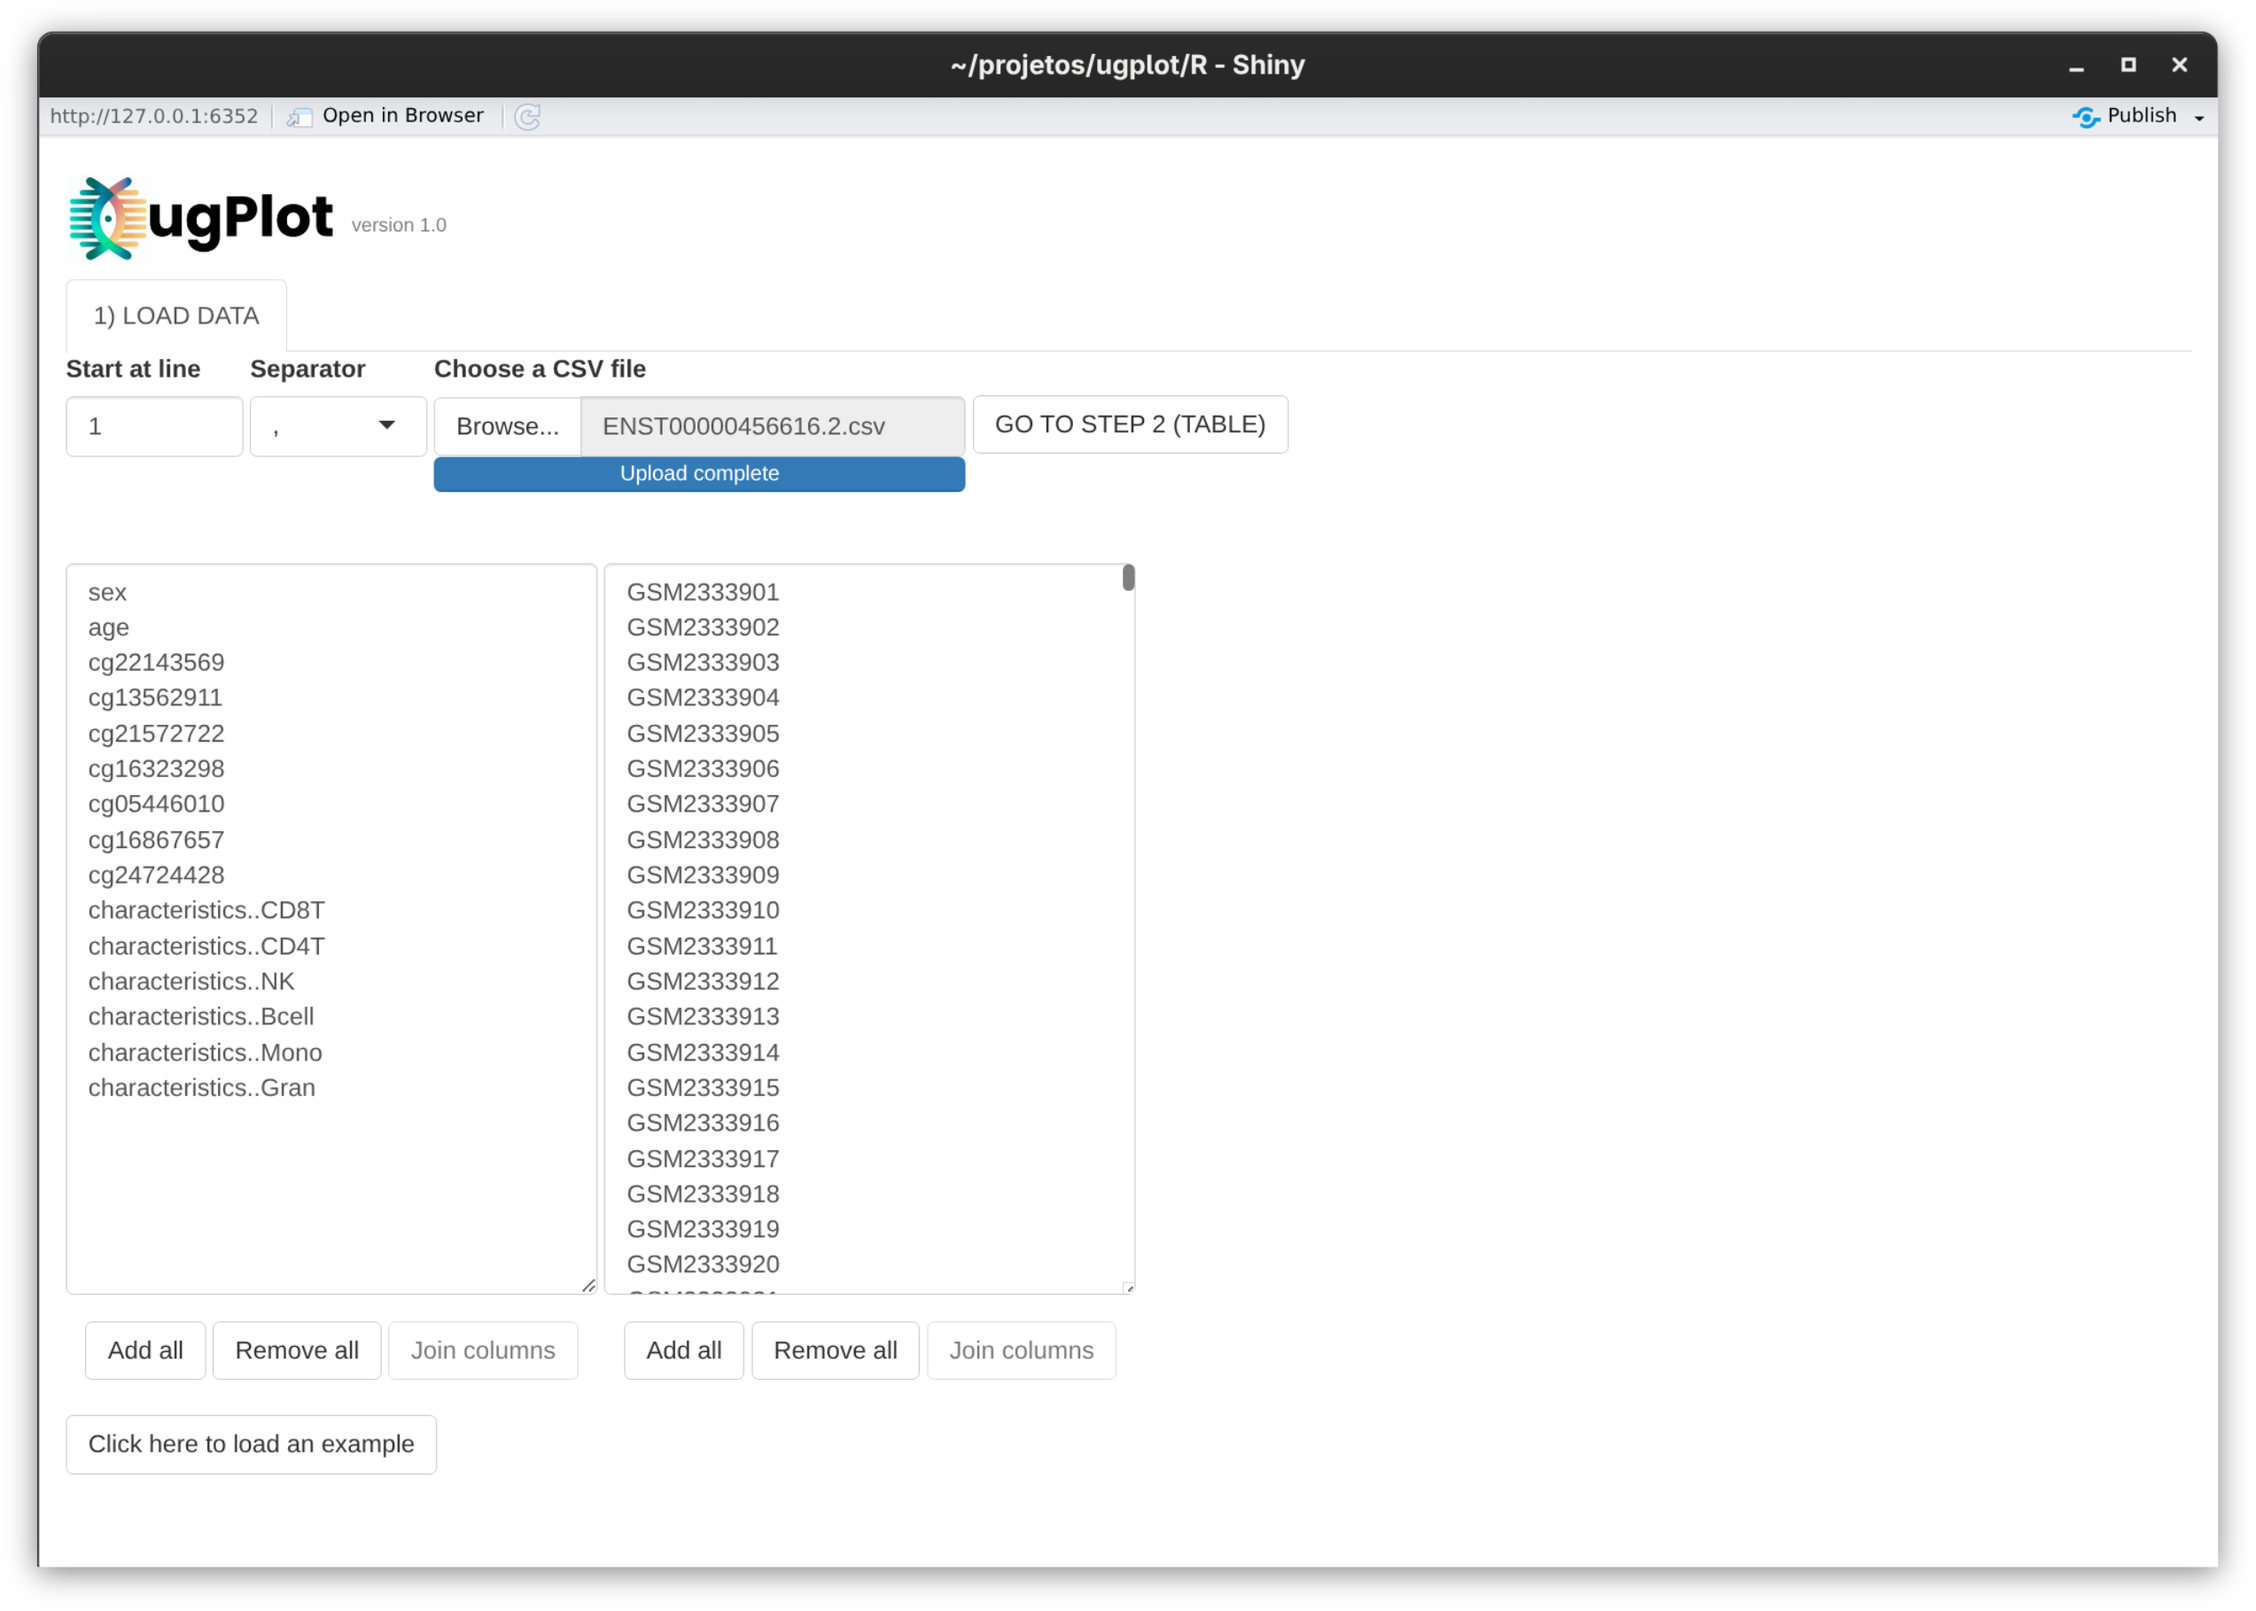
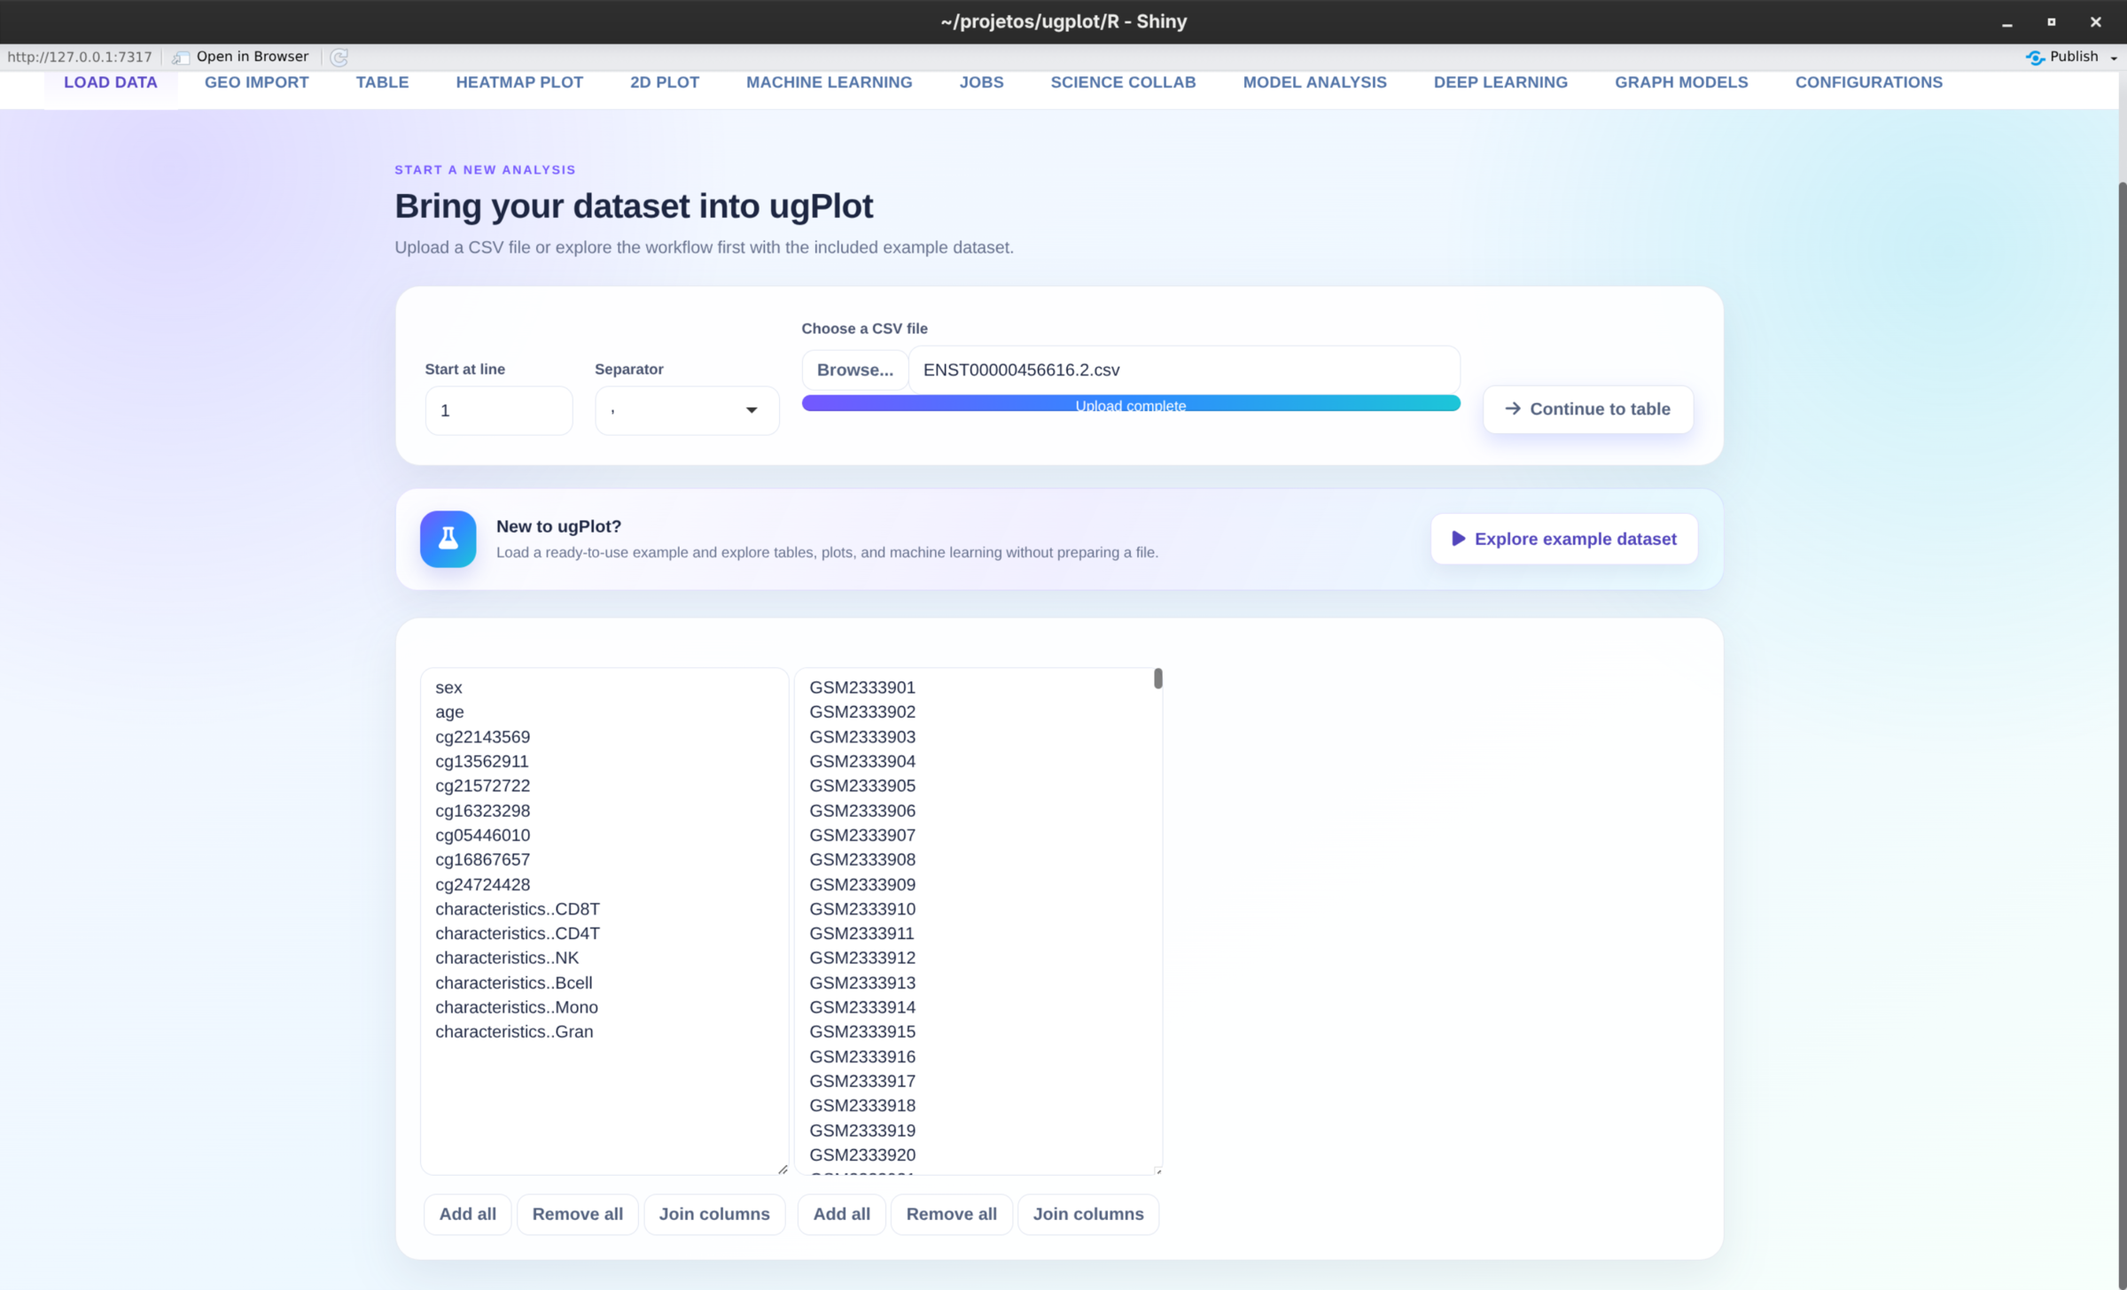
Refresh data workflow screenshots

diff --git a/README.md b/README.md
@@ -207,7 +207,7 @@ If any answer looks wrong, fix it here. Later tabs assume the imported table sha
 
 ### 1.2 Confirm detected columns and rows
 
-![doc3 - load tab after upload](man/img/doc3.png)
+![ugPlot detected columns and rows after upload](man/img/doc3.png)
 
 After upload, ugPlot shows:
 
@@ -220,9 +220,9 @@ Buttons below each box:
 - **Remove all**: clear all selections.
 - **Join columns**: normalize text list into a merged selection.
 
-Then click **GO TO STEP 2 (TABLE)**.
+Then click **Continue to table**.
 
-If you just want to test the app first, click **Click here to load an example**.
+If you just want to test the app first, click **Explore example dataset**.
 
 For most biomedical tables, include all columns/samples at first, then remove or mark items in **TABLE**. Starting broad keeps the original context visible while you decide what belongs in the final analysis.
 
@@ -230,7 +230,7 @@ For most biomedical tables, include all columns/samples at first, then remove or
 
 ## 2) TABLE — the most important preprocessing page
 
-![doc4 - table tab controls](man/img/doc4.png)
+![ugPlot TABLE workspace](man/img/doc4.png)
 
 Think of this tab as your "quality gate" before plotting/training.
 
@@ -282,7 +282,7 @@ This is the best place to catch practical problems: hidden missing values, unexp
 
 ## 3) HEATMAP PLOT — fast visual diagnostics + editable code
 
-![doc5 - heatmap plot tab](man/img/doc5.png)
+![ugPlot HEATMAP PLOT workspace](man/img/doc5.png)
 
 Use heatmaps early, before ML, to see whether the dataset has broad structure. A useful heatmap can reveal sample clusters, batch effects, outliers, and groups of correlated variables. A confusing heatmap is also informative: it may mean the selected features are too noisy, too many, or not scaled/filtered appropriately.
 
